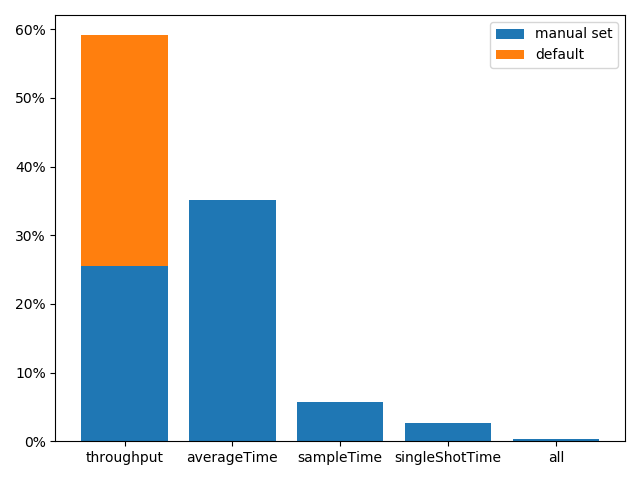
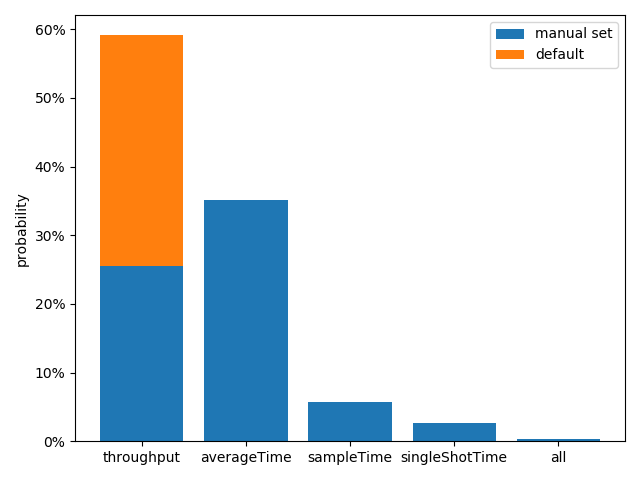
Update scripts and plots

Changed region(s): [[0.0, 0.0312, 0.8125, 0.9688], [0.8438, 0.9375, 0.9062, 0.9688], [0.75, 0.875, 0.7812, 0.9062]]

diff --git a/RQ1_Kotlin/src/main/kotlin/ch/uzh/ifi/seal/smr/soa/analysis/isdefaultvalue/Main.kt b/RQ1_Kotlin/src/main/kotlin/ch/uzh/ifi/seal/smr/soa/analysis/isdefaultvalue/Main.kt
@@ -22,6 +22,12 @@ fun main() {
 
     output.add(ResIsDefault("${all.size} benchmarks has a jmh version"))
 
+    val pre120 = all.filter{ it.jmhVersion!!.compareTo(jmh120) < 0 }
+    output.add(ResIsDefault("${pre120.size} benchmarks has jmh version 1.20 or ealier"))
+
+    val post120 = all.filter{ it.jmhVersion!!.compareTo(jmh120) == 1 }
+    output.add(ResIsDefault("${post120.size} benchmarks has jmh version 1.21"))
+
     analyze(all, "warmupIterations", Result::warmupIterations, ExecutionConfiguration::warmupIterations)
     analyze(all, "warmupTime", Result::warmupTime, ExecutionConfiguration::warmupTime)
     analyze(all, "measurementIterations", Result::measurementIterations, ExecutionConfiguration::measurementIterations)
@@ -48,14 +54,22 @@ private fun analyze(all: Set<Result>, title: String, property: KMutableProperty1
     }
 
     val post120 = isDefault.filter { it.jmhVersion!!.compareTo(jmh120) == 1 }
+    val pre120 = isDefault.filter { it.jmhVersion!!.compareTo(jmh120) < 1 }
+
+    val allPost120 = hasValue.filter { it.jmhVersion!!.compareTo(jmh120) == 1 }
+    val allPre120 = hasValue.filter { it.jmhVersion!!.compareTo(jmh120) < 1 }
 
     output.add(ResIsDefault(
             name = title,
             annotationPresent = hasValue.size,
-            isDefaultValue = isDefault.size,
-            isDefaultValuePercentage = percentage(isDefault.size, hasValue.size),
-            isDefaultValueIn121 = post120.size,
-            isDefaultValueIn121Percentage = percentage(post120.size, isDefault.size)
+            defaultValuePresent = isDefault.size,
+            defaultValuePresentPercentage = percentage(isDefault.size, hasValue.size),
+            annotationPresentPre121 = allPre120.size,
+            defaultValuePresentPre121 = pre120.size,
+            defaultValuePresentPre121Percentage = percentage(pre120.size, allPre120.size),
+            annotationPresentPost121 = allPost120.size,
+            defaultValuePresentPost121 = post120.size,
+            defaultValuePresentPost121Percentage = percentage(post120.size, allPost120.size)
     ))
 }
 
@@ -69,10 +83,22 @@ private fun analyzeMode(all: Set<Result>) {
         it.modeIsThroughput == true && it.modeIsAverageTime != true && it.modeIsSampleTime != true && it.modeIsSingleShotTime != true
     }
 
+    val post120 = onlyThrptUsed.filter { it.jmhVersion!!.compareTo(jmh120) == 1 }
+    val pre120 = onlyThrptUsed.filter { it.jmhVersion!!.compareTo(jmh120) < 1 }
+
+    val allPost120 = someModeSet.filter { it.jmhVersion!!.compareTo(jmh120) == 1 }
+    val allPre120 = someModeSet.filter { it.jmhVersion!!.compareTo(jmh120) < 1 }
+
     output.add(ResIsDefault(
             name = "mode",
             annotationPresent = someModeSet.size,
-            isDefaultValue = onlyThrptUsed.size,
-            isDefaultValuePercentage = percentage(onlyThrptUsed.size, someModeSet.size)
+            defaultValuePresent = onlyThrptUsed.size,
+            defaultValuePresentPercentage = percentage(onlyThrptUsed.size, someModeSet.size),
+            annotationPresentPre121 = allPre120.size,
+            defaultValuePresentPre121 = pre120.size,
+            defaultValuePresentPre121Percentage = percentage(pre120.size, allPre120.size),
+            annotationPresentPost121 = allPost120.size,
+            defaultValuePresentPost121 = post120.size,
+            defaultValuePresentPost121Percentage = percentage(post120.size, allPost120.size)
     ))
 }

diff --git a/RQ1_Kotlin/src/main/kotlin/ch/uzh/ifi/seal/smr/soa/analysis/isdefaultvalue/ResIsDefault.kt b/RQ1_Kotlin/src/main/kotlin/ch/uzh/ifi/seal/smr/soa/analysis/isdefaultvalue/ResIsDefault.kt
@@ -16,18 +16,37 @@ class ResIsDefault {
     var defaultValuePresentPercentage: Double? = null
 
     @CsvBindByPosition(position = 4)
-    var defaultValuePresentIn121: Int? = null
+    var annotationPresentPre121: Int? = null
 
     @CsvBindByPosition(position = 5)
-    var defaultValuePresentIn121Percentage: Double? = null
+    var defaultValuePresentPre121: Int? = null
+
+    @CsvBindByPosition(position = 6)
+    var defaultValuePresentPre121Percentage: Double? = null
+
+    @CsvBindByPosition(position = 7)
+    var annotationPresentPost121: Int? = null
+
+    @CsvBindByPosition(position = 8)
+    var defaultValuePresentPost121: Int? = null
+
+    @CsvBindByPosition(position = 9)
+    var defaultValuePresentPost121Percentage: Double? = null
 
     constructor()
-    constructor(name: String, annotationPresent: Int? = null, isDefaultValue: Int? = null, isDefaultValuePercentage: Double? = null, isDefaultValueIn121: Int? = null, isDefaultValueIn121Percentage: Double? = null) {
+    constructor(name: String, annotationPresent: Int? = null, defaultValuePresent: Int? = null, defaultValuePresentPercentage: Double? = null, annotationPresentPre121: Int? = null, defaultValuePresentPre121: Int? = null, defaultValuePresentPre121Percentage: Double? = null, annotationPresentPost121: Int? = null, defaultValuePresentPost121: Int? = null, defaultValuePresentPost121Percentage: Double? = null) {
         this.name = name
         this.annotationPresent = annotationPresent
-        this.defaultValuePresent = isDefaultValue
-        this.defaultValuePresentPercentage = isDefaultValuePercentage
-        this.defaultValuePresentIn121 = isDefaultValueIn121
-        this.defaultValuePresentIn121Percentage = isDefaultValueIn121Percentage
+        this.defaultValuePresent = defaultValuePresent
+        this.defaultValuePresentPercentage = defaultValuePresentPercentage
+        this.annotationPresentPre121 = annotationPresentPre121
+        this.defaultValuePresentPre121 = defaultValuePresentPre121
+        this.defaultValuePresentPre121Percentage = defaultValuePresentPre121Percentage
+        this.annotationPresentPost121 = annotationPresentPost121
+        this.defaultValuePresentPost121 = defaultValuePresentPost121
+        this.defaultValuePresentPost121Percentage = defaultValuePresentPost121Percentage
     }
+
+
+
 }

diff --git a/RQ1_Kotlin/src/main/kotlin/ch/uzh/ifi/seal/smr/soa/analysis/annotationpresent/Main.kt b/RQ1_Kotlin/src/main/kotlin/ch/uzh/ifi/seal/smr/soa/analysis/annotationpresent/Main.kt
@@ -40,9 +40,24 @@ private fun analyzeMode(all: Set<Result>) {
     val notDefault = all.filter {
         it.modeIsThroughput == true || it.modeIsAverageTime == true || it.modeIsSampleTime == true || it.modeIsSingleShotTime == true
     }.toSet()
+
+    val bothAnnotationsUsedSameValue = notDefault.filter {
+        it.modeIsThroughputClass == it.modeIsThroughputMethod && it.modeIsAverageTimeClass == it.modeIsAverageTimeMethod &&
+                it.modeIsSampleTimeClass == it.modeIsSampleTimeMethod && it.modeIsSingleShotTimeClass == it.modeIsSingleShotTimeMethod
+    }
+
+    val bothAnnotationsUsedDifferentValue = notDefault.filter {
+        (it.modeIsThroughputClass != null && it.modeIsThroughputMethod != null && it.modeIsThroughputClass != it.modeIsThroughputMethod) ||
+                (it.modeIsAverageTimeClass != null && it.modeIsAverageTimeMethod != null && it.modeIsAverageTimeClass != it.modeIsAverageTimeMethod) ||
+                (it.modeIsSampleTimeClass != null && it.modeIsSampleTimeMethod != null && it.modeIsSampleTimeClass != it.modeIsSampleTimeMethod) ||
+                (it.modeIsSingleShotTimeClass != null && it.modeIsSingleShotTimeMethod != null && it.modeIsSingleShotTimeClass != it.modeIsSingleShotTimeMethod)
+    }
+
     output.add(ResAnnotationPresent(
             name = "mode",
-            annotationPresentPercentage = percentage(notDefault.size, all.size)
+            annotationPresentPercentage = percentage(notDefault.size, all.size),
+            bothAnnotationsUsedSameValue = bothAnnotationsUsedSameValue.size,
+            bothAnnotationsUsedDifferentValue = bothAnnotationsUsedDifferentValue.size
     ))
 
     analyzeSingleMode(notDefault, "throughput", Result::modeIsThroughput, Result::modeIsThroughputClass, Result::modeIsThroughputMethod)

diff --git a/RQ1_Python/benchmark_repo_correlation.py b/RQ1_Python/benchmark_repo_correlation.py
@@ -2,63 +2,79 @@ import pandas as pd
 import numpy as np
 from correlation_helper import pointbiserialr, spearman, dfOutput
 
-def point_correlation_repo_meta(col, data):
+
+def point_correlation_repo_meta_extra(col, data):
+    return point_correlation_repo_meta(col, col, data)
+
+
+def point_correlation_repo_meta(name, col, data):
     cleaned = data[np.logical_not(np.isnan(data[col]))]
     return pd.DataFrame({
-            "name":col,
-            "stars":pointbiserialr(cleaned, col, 'stars'),
-            "projectForks":pointbiserialr(cleaned, col, 'projectForks'),
-            "watchers":pointbiserialr(cleaned, col, 'watchers'),
-            "numberOfCommits":pointbiserialr(cleaned, col, 'numberOfCommits'),
-            "numberOfContributors":pointbiserialr(cleaned, col, 'numberOfContributors')
+        "name": name,
+        "stars": pointbiserialr(cleaned, col, 'stars'),
+        "projectForks": pointbiserialr(cleaned, col, 'projectForks'),
+        "watchers": pointbiserialr(cleaned, col, 'watchers'),
+        "numberOfCommits": pointbiserialr(cleaned, col, 'numberOfCommits'),
+        "numberOfContributors": pointbiserialr(cleaned, col, 'numberOfContributors')
     })
+
 
 def spearman_correlation_repo_meta(col, data):
     return pd.DataFrame({
-            "name":col,
-            "stars":spearman(data, col, 'stars'),
-            "projectForks":spearman(data, col, 'projectForks'),
-            "watchers":spearman(data, col, 'watchers'),
-            "numberOfCommits":spearman(data, col, 'numberOfCommits'),
-            "numberOfContributors":spearman(data, col, 'numberOfContributors')
+        "name": col,
+        "stars": spearman(data, col, 'stars'),
+        "projectForks": spearman(data, col, 'projectForks'),
+        "watchers": spearman(data, col, 'watchers'),
+        "numberOfCommits": spearman(data, col, 'numberOfCommits'),
+        "numberOfContributors": spearman(data, col, 'numberOfContributors')
     })
+
 
 pd.set_option('display.max_rows', 500)
 pd.set_option('display.max_columns', 500)
 pd.set_option('display.width', 1000)
 
-data = pd.read_csv('C:\\Users\\stewue\\OneDrive - Wuersten\\Uni\\19_HS\\Masterarbeit\\Repo\\Evaluation\\RQ1_Results\\aggregated\\benchmarkrepocorrelation.csv')
+data = pd.read_csv(
+    'C:\\Users\\stewue\\OneDrive - Wuersten\\Uni\\19_HS\\Masterarbeit\\Repo\\Evaluation\\RQ1_Results\\aggregated\\benchmarkrepocorrelation.csv')
 
 df = pd.DataFrame({})
-df = df.append(spearman_correlation_repo_meta('warmupIterations', data), ignore_index = True)
-df = df.append(spearman_correlation_repo_meta('warmupTime', data), ignore_index = True)
-df = df.append(spearman_correlation_repo_meta('measurementIterations', data), ignore_index = True)
-df = df.append(spearman_correlation_repo_meta('measurementTime', data), ignore_index = True)
-df = df.append(spearman_correlation_repo_meta('forks', data), ignore_index = True)
-df = df.append(spearman_correlation_repo_meta('warmupForks', data), ignore_index = True)
+df = df.append(spearman_correlation_repo_meta('warmupIterations', data), ignore_index=True)
+df = df.append(spearman_correlation_repo_meta('warmupTime', data), ignore_index=True)
+df = df.append(spearman_correlation_repo_meta('measurementIterations', data), ignore_index=True)
+df = df.append(spearman_correlation_repo_meta('measurementTime', data), ignore_index=True)
+df = df.append(spearman_correlation_repo_meta('forks', data), ignore_index=True)
+df = df.append(spearman_correlation_repo_meta('warmupForks', data), ignore_index=True)
 
 print(dfOutput(df))
 
 print("------------")
 
 df = pd.DataFrame({})
-df = df.append(point_correlation_repo_meta('modeIsThroughput', data), ignore_index = True)
-df = df.append(point_correlation_repo_meta('modeIsAverageTime', data), ignore_index = True)
-df = df.append(point_correlation_repo_meta('modeIsSampleTime', data), ignore_index = True)
-df = df.append(point_correlation_repo_meta('modeIsSingleShotTime', data), ignore_index = True)
+df = df.append(point_correlation_repo_meta_extra('modeIsThroughput', data), ignore_index=True)
+df = df.append(point_correlation_repo_meta_extra('modeIsAverageTime', data), ignore_index=True)
+df = df.append(point_correlation_repo_meta_extra('modeIsSampleTime', data), ignore_index=True)
+df = df.append(point_correlation_repo_meta_extra('modeIsSingleShotTime', data), ignore_index=True)
 
 print(dfOutput(df))
 
 print("------------")
 
 df = pd.DataFrame({})
-df = df.append(point_correlation_repo_meta('nothingSet', data), ignore_index = True)
-df = df.append(point_correlation_repo_meta('warmupIterationsDefault', data), ignore_index = True)
-df = df.append(point_correlation_repo_meta('warmupTimeDefault', data), ignore_index = True)
-df = df.append(point_correlation_repo_meta('measurementIterationsDefault', data), ignore_index = True)
-df = df.append(point_correlation_repo_meta('measurementTimeDefault', data), ignore_index = True)
-df = df.append(point_correlation_repo_meta('forksDefault', data), ignore_index = True)
-df = df.append(point_correlation_repo_meta('warmupForksDefault', data), ignore_index = True)
-df = df.append(point_correlation_repo_meta('modeDefault', data), ignore_index = True)
+data['somethingSet'] = -1 * data['nothingSet']
+df = df.append(point_correlation_repo_meta('at least a configuration option is set', 'somethingSet', data), ignore_index=True)
+data['invertedWarmupIterationsDefault'] = -1 * data['warmupIterationsDefault']
+df = df.append(point_correlation_repo_meta('non-default warmup iteration value used', 'invertedWarmupIterationsDefault', data), ignore_index=True)
+data['invertedWarmupTimeDefault'] = -1 * data['warmupTimeDefault']
+df = df.append(point_correlation_repo_meta('non-default warmup time value used', 'invertedWarmupTimeDefault', data), ignore_index=True)
+data['invertedMeasurementIterationsDefault'] = -1 * data['measurementIterationsDefault']
+df = df.append(point_correlation_repo_meta('non-default measurement iteration value used', 'invertedMeasurementIterationsDefault', data), ignore_index=True)
+data['invertedMeasurementTimeDefault'] = -1 * data['measurementTimeDefault']
+df = df.append(point_correlation_repo_meta('non-default measurement time value used', 'invertedMeasurementTimeDefault', data), ignore_index=True)
+data['invertedForksDefault'] = -1 * data['forksDefault']
+df = df.append(point_correlation_repo_meta('non-default fork value used', 'invertedForksDefault', data), ignore_index=True)
+data['invertedWarmupForksDefault'] = -1 * data['warmupForksDefault']
+df = df.append(point_correlation_repo_meta('non-default warmup fork value used', 'invertedWarmupForksDefault', data), ignore_index=True)
+data['invertedModeDefault'] = -1 * data['modeDefault']
+df = df.append(point_correlation_repo_meta('non-default mode used', 'invertedModeDefault', data), ignore_index=True)
 
 print(dfOutput(df))

diff --git a/RQ1_Python/forks_distribution.py b/RQ1_Python/forks_distribution.py
@@ -15,7 +15,8 @@ plt.gca().yaxis.set_major_formatter(PercentFormatter(1))
 label = ('0', '1', '2', '3', '4', '5', '10', '11-1000')
 plt.bar(x, valuesAll)
 plt.xticks(x, label)
-plt.xlabel('numberOfForks')
+plt.xlabel('# forks')
+plt.ylabel('probability')
 plt.tight_layout()
 #plt.show()
 plt.savefig('export.png')

diff --git a/RQ1_Python/warmupForks_distribution.py b/RQ1_Python/warmupForks_distribution.py
@@ -15,7 +15,8 @@ plt.gca().yaxis.set_major_formatter(PercentFormatter(1))
 label = ('0', '1', '2')
 plt.bar(x, valuesAll)
 plt.xticks(x, label)
-plt.xlabel('numberOfWarmupForks')
+plt.xlabel('# warmup forks')
+plt.ylabel('probability')
 plt.tight_layout()
 #plt.show()
 plt.savefig('export.png')

diff --git a/RQ1_Python/mode_distribution.py b/RQ1_Python/mode_distribution.py
@@ -9,6 +9,7 @@ plt.gca().yaxis.set_major_formatter(PercentFormatter(1))
 plt.bar(name, percentage, label="manual set")
 plt.bar(name, default, bottom=percentage, label="default")
 plt.legend()
+plt.ylabel('probability')
 plt.tight_layout()
 #plt.show()
 plt.savefig('export.png')

diff --git a/RQ1_Python/mode_number.py b/RQ1_Python/mode_number.py
@@ -6,6 +6,8 @@ percentage = (0.9731, 0.019, 0.0022, 0.0056)
 
 plt.gca().yaxis.set_major_formatter(PercentFormatter(1))
 plt.bar(name, percentage)
+plt.ylabel('probability')
+plt.xlabel('# modes')
 plt.tight_layout()
 #plt.show()
 plt.savefig('export.png')
